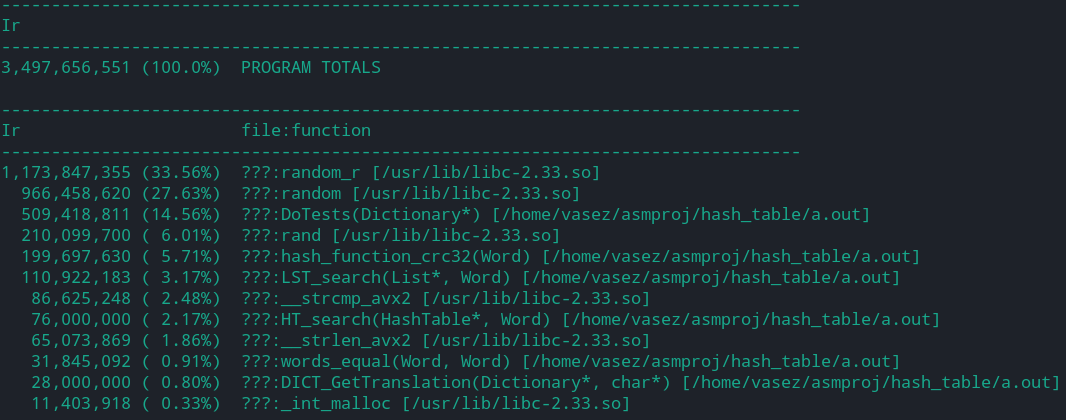
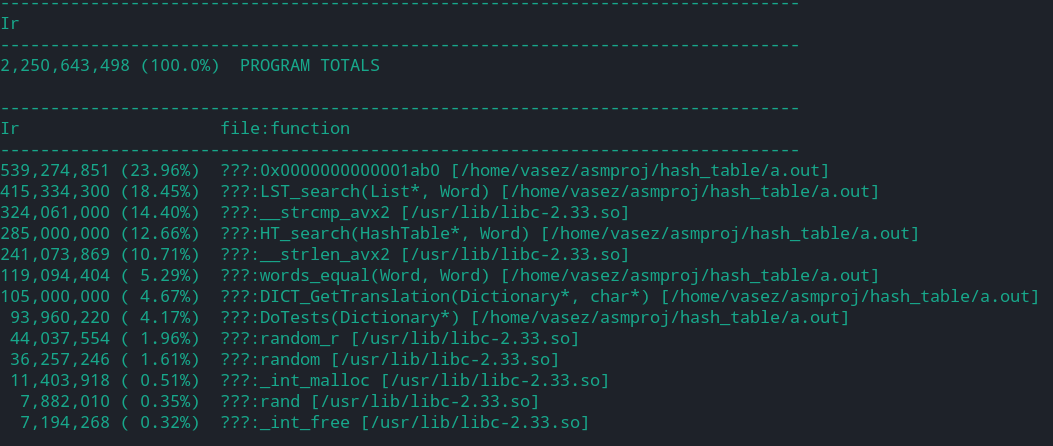
crc32 fully enabled

Changed region(s): [[0.0, 0.2476, 1.0, 0.9905], [0.0, 0.0929, 0.7597, 0.1857], [0.0, 0.0, 0.7597, 0.0619]]

diff --git a/hash_functions.cpp b/hash_functions.cpp
@@ -63,7 +63,7 @@ size_t hash_function_rol(Word word) {
 //   return r ^ (uint32_t)0xFF000000L;
 // }
 
-const uint32_t crc_table[256] = {3523407757,2768625435,1007455905,1259060791,3580832660,2724731650,996231864,1281784366,3705235391,2883475241,852952723,1171273221,3686048678,2897449776,901431946,1119744540,3484811241,3098726271,565944005,1455205971,3369614320,3219065702,651582172,1372678730,3245242331,3060352845,794826487,1483155041,3322131394,2969862996,671994606,1594548856,3916222277,2657877971,123907689,1885708031,3993045852,2567322570,1010288,1997036262,3887548279,2427484129,163128923,2126386893,3772416878,2547889144,248832578,2043925204,4108050209,2212294583,450215437,1842515611,4088798008,2226203566,498629140,1790921346,4194326291,2366072709,336475711,1661535913,4251816714,2322244508,325317158,1684325040,2766056989,3554254475,1255198513,1037565863,2746444292,3568589458,1304234792,985283518,2852464175,3707901625,1141589763,856455061,2909332022,3664761504,1130791706,878818188,3110715001,3463352047,1466425173,543223747,3187964512,3372436214,1342839628,655174618,3081909835,3233089245,1505515367,784033777,2967466578,3352871620,1590793086,701932520,2679148245,3904355907,1908338681,112844655,2564639436,4024072794,1993550816,30677878,2439710439,3865851505,2137352139,140662621,2517025534,3775001192,2013832146,252678980,2181537457,4110462503,1812594589,453955339,2238339752,4067256894,1801730948,476252946,2363233923,4225443349,1657960367,366298937,2343686810,4239843852,1707062198,314082080,1069182125,1220369467,3518238081,2796764439,953657524,1339070498,3604597144,2715744526,828499103,1181144073,3748627891,2825434405,906764422,1091244048,3624026538,2936369468,571309257,1426738271,3422756325,3137613171,627095760,1382516806,3413039612,3161057642,752284923,1540473965,3268974039,3051332929,733688034,1555824756,3316994510,2998034776,81022053,1943239923,3940166985,2648514015,62490748,1958656234,3988253008,2595281350,168805463,2097738945,3825313147,2466682349,224526414,2053451992,3815530850,2490061300,425942017,1852075159,4151131437,2154433979,504272920,1762240654,4026595636,2265434530,397988915,1623188645,4189500703,2393998729,282398762,1741824188,4275794182,2312913296,1231433021,1046551979,2808630289,3496967303,1309403428,957143474,2684717064,3607279774,1203610895,817534361,2847130659,3736401077,1087398166,936857984,2933784634,3654889644,1422998873,601230799,3135200373,3453512931,1404893504,616286678,3182598252,3400902906,1510651243,755860989,3020215367,3271812305,1567060338,710951396,3010007134,3295551688,1913130485,84884835,2617666777,3942734927,1969605100,40040826,2607524032,3966539862,2094237127,198489425,2464015595,3856323709,2076066270,213479752,2511347954,3803648100,1874795921,414723335,2175892669,4139142187,1758648712,534112542,2262612132,4057696306,1633981859,375629109,2406151311,4167943193,1711886778,286155052,2282172566,4278190080};
+// const uint32_t crc_table[256] = {3523407757,2768625435,1007455905,1259060791,3580832660,2724731650,996231864,1281784366,3705235391,2883475241,852952723,1171273221,3686048678,2897449776,901431946,1119744540,3484811241,3098726271,565944005,1455205971,3369614320,3219065702,651582172,1372678730,3245242331,3060352845,794826487,1483155041,3322131394,2969862996,671994606,1594548856,3916222277,2657877971,123907689,1885708031,3993045852,2567322570,1010288,1997036262,3887548279,2427484129,163128923,2126386893,3772416878,2547889144,248832578,2043925204,4108050209,2212294583,450215437,1842515611,4088798008,2226203566,498629140,1790921346,4194326291,2366072709,336475711,1661535913,4251816714,2322244508,325317158,1684325040,2766056989,3554254475,1255198513,1037565863,2746444292,3568589458,1304234792,985283518,2852464175,3707901625,1141589763,856455061,2909332022,3664761504,1130791706,878818188,3110715001,3463352047,1466425173,543223747,3187964512,3372436214,1342839628,655174618,3081909835,3233089245,1505515367,784033777,2967466578,3352871620,1590793086,701932520,2679148245,3904355907,1908338681,112844655,2564639436,4024072794,1993550816,30677878,2439710439,3865851505,2137352139,140662621,2517025534,3775001192,2013832146,252678980,2181537457,4110462503,1812594589,453955339,2238339752,4067256894,1801730948,476252946,2363233923,4225443349,1657960367,366298937,2343686810,4239843852,1707062198,314082080,1069182125,1220369467,3518238081,2796764439,953657524,1339070498,3604597144,2715744526,828499103,1181144073,3748627891,2825434405,906764422,1091244048,3624026538,2936369468,571309257,1426738271,3422756325,3137613171,627095760,1382516806,3413039612,3161057642,752284923,1540473965,3268974039,3051332929,733688034,1555824756,3316994510,2998034776,81022053,1943239923,3940166985,2648514015,62490748,1958656234,3988253008,2595281350,168805463,2097738945,3825313147,2466682349,224526414,2053451992,3815530850,2490061300,425942017,1852075159,4151131437,2154433979,504272920,1762240654,4026595636,2265434530,397988915,1623188645,4189500703,2393998729,282398762,1741824188,4275794182,2312913296,1231433021,1046551979,2808630289,3496967303,1309403428,957143474,2684717064,3607279774,1203610895,817534361,2847130659,3736401077,1087398166,936857984,2933784634,3654889644,1422998873,601230799,3135200373,3453512931,1404893504,616286678,3182598252,3400902906,1510651243,755860989,3020215367,3271812305,1567060338,710951396,3010007134,3295551688,1913130485,84884835,2617666777,3942734927,1969605100,40040826,2607524032,3966539862,2094237127,198489425,2464015595,3856323709,2076066270,213479752,2511347954,3803648100,1874795921,414723335,2175892669,4139142187,1758648712,534112542,2262612132,4057696306,1633981859,375629109,2406151311,4167943193,1711886778,286155052,2282172566,4278190080};
 
 // void crc32(const void *data, size_t n_bytes, uint32_t* crc) {
 //     // static uint32_t table[0x100];
@@ -77,48 +77,48 @@ const uint32_t crc_table[256] = {3523407757,2768625435,1007455905,1259060791,358
 //     }
 // }
 
-// asm(".intel_syntax noprefix\n"
-// ".globl hash_function_crc32\n"
-//     ".type hash_function_crc32, @function\n"
-//     "hash_function_crc32:\n"
-//     "xor rax, rax\n"
-//     "xor rdx, rdx\n"
-//     "push rdi\n"
-//     "call strlen@PLT\n"
-//     "mov edx, eax\n"
-//     "pop rdi\n"
-//     "xor rax, rax\n"
-//     "crcloop:\n"
-//         "cmp rdx, 8\n"
-//         "jae Crc64\n"
-//         "crclooplow:"
-//         "cmp rdx, 0\n"
-//         "je crcloopexit\n"
-//         "crc32 rax, byte ptr [rdi]\n"
-//         "inc rdi\n"
-//         "dec rdx\n"
-//         "jmp crclooplow\n"
-//         "Crc64:\n"
-//         "crc32 rax, qword ptr [rdi]\n"
-//         "add rdi, 8\n"
-//         "sub rdx, 8\n"
-//         "jmp crcloop\n"
-//     "crcloopexit:\n"
-//     //"xor rax, rax\n"
-//     "ret\n"
-//     ".att_syntax noprefix\n"
-// );
+asm(".intel_syntax noprefix\n"
+".globl hash_function_crc32\n"
+    ".type hash_function_crc32, @function\n"
+    "hash_function_crc32:\n"
+    "xor rax, rax\n"
+    "xor rdx, rdx\n"
+    "push rdi\n"
+    "call strlen@PLT\n"
+    "mov edx, eax\n"
+    "pop rdi\n"
+    "xor rax, rax\n"
+    "crcloop:\n"
+        "cmp rdx, 8\n"
+        "jae Crc64\n"
+        "crclooplow:"
+        "cmp rdx, 0\n"
+        "je crcloopexit\n"
+        "crc32 rax, byte ptr [rdi]\n"
+        "inc rdi\n"
+        "dec rdx\n"
+        "jmp crclooplow\n"
+        "Crc64:\n"
+        "crc32 rax, qword ptr [rdi]\n"
+        "add rdi, 8\n"
+        "sub rdx, 8\n"
+        "jmp crcloop\n"
+    "crcloopexit:\n"
+    //"xor rax, rax\n"
+    "ret\n"
+    ".att_syntax noprefix\n"
+);
 
-void crc32(const void *data, size_t n_bytes, uint32_t* crc) {
-    for(size_t i = 0; i < n_bytes; ++i)
-        *crc = crc_table[(uint8_t)*crc ^ ((uint8_t*)data)[i]] ^ *crc >> 8;
-}
-
-size_t hash_function_crc32(Word word) {
-    uint32_t crc_ans = 0;
-    crc32(word.word, strlen(word.word), &crc_ans);
-    return crc_ans;
-}
+// void crc32(const void *data, size_t n_bytes, uint32_t* crc) {
+//     for(size_t i = 0; i < n_bytes; ++i)
+//         *crc = crc_table[(uint8_t)*crc ^ ((uint8_t*)data)[i]] ^ *crc >> 8;
+// }
+//
+// size_t hash_function_crc32(Word word) {
+//     uint32_t crc_ans = 0;
+//     crc32(word.word, strlen(word.word), &crc_ans);
+//     return crc_ans;
+// }
 
 // size_t hash_function_crc32(Word word) {
 //     uint32_t crc_ans = 0;

diff --git a/hash_functions.h b/hash_functions.h
@@ -11,7 +11,7 @@ size_t hash_function_first_ascii(Word word);
 size_t hash_function_sum_ascii(Word word);
 size_t hash_function_ror(Word word);
 size_t hash_function_rol(Word word);
-size_t hash_function_crc32(Word word);
+extern "C" size_t hash_function_crc32(Word word);
 // size_t hash_function_crc32(Word word);
 
 #endif
